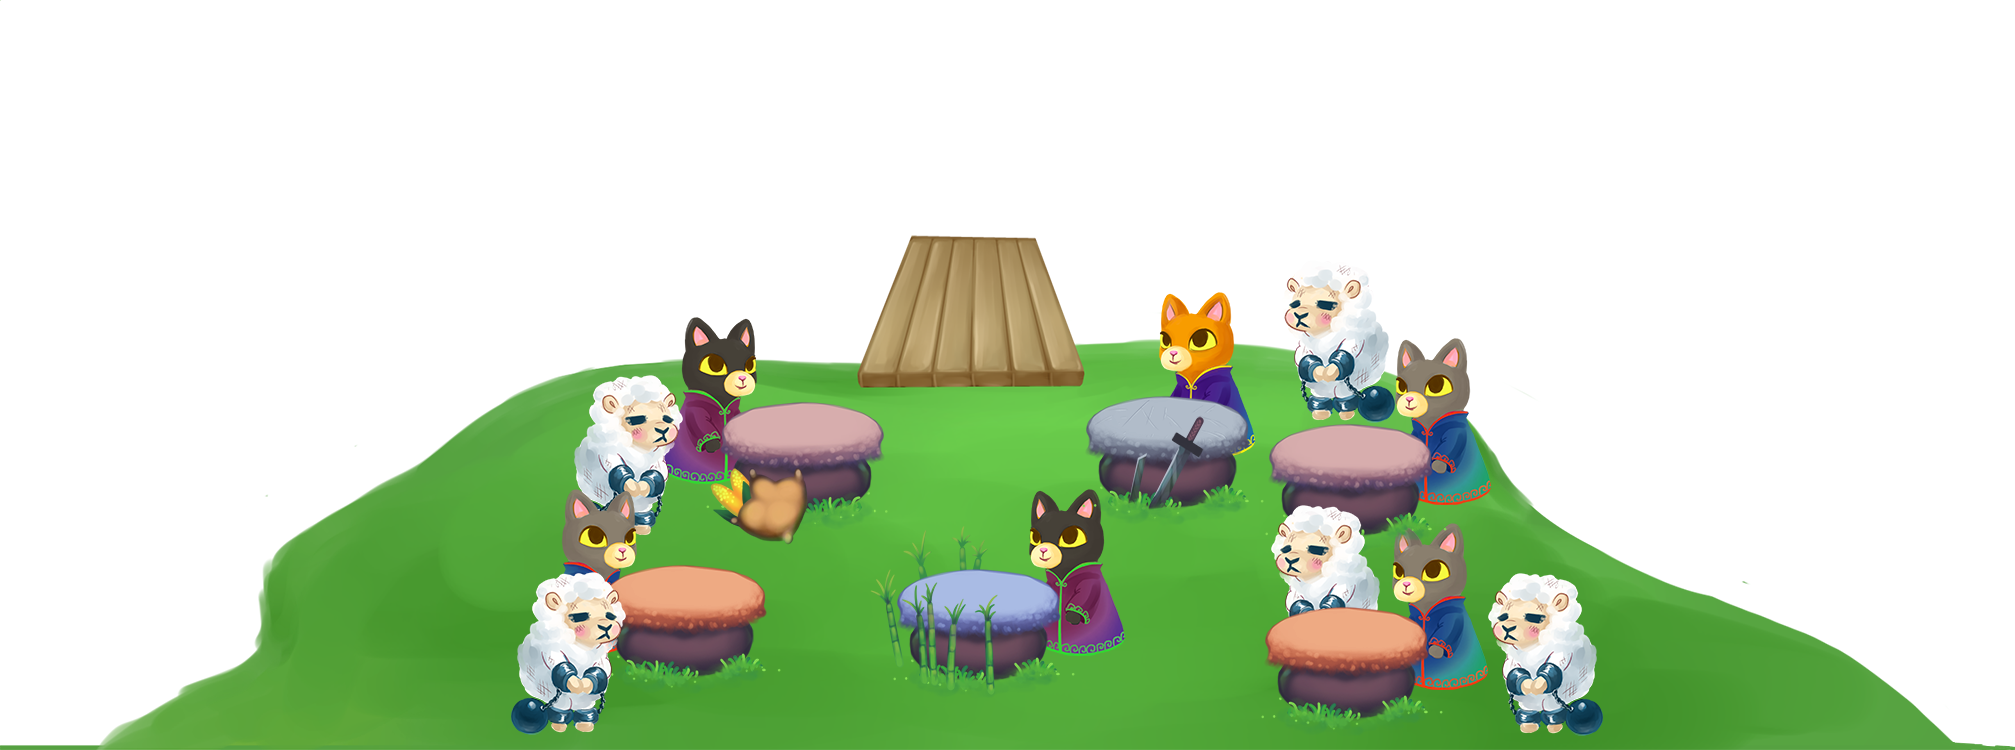
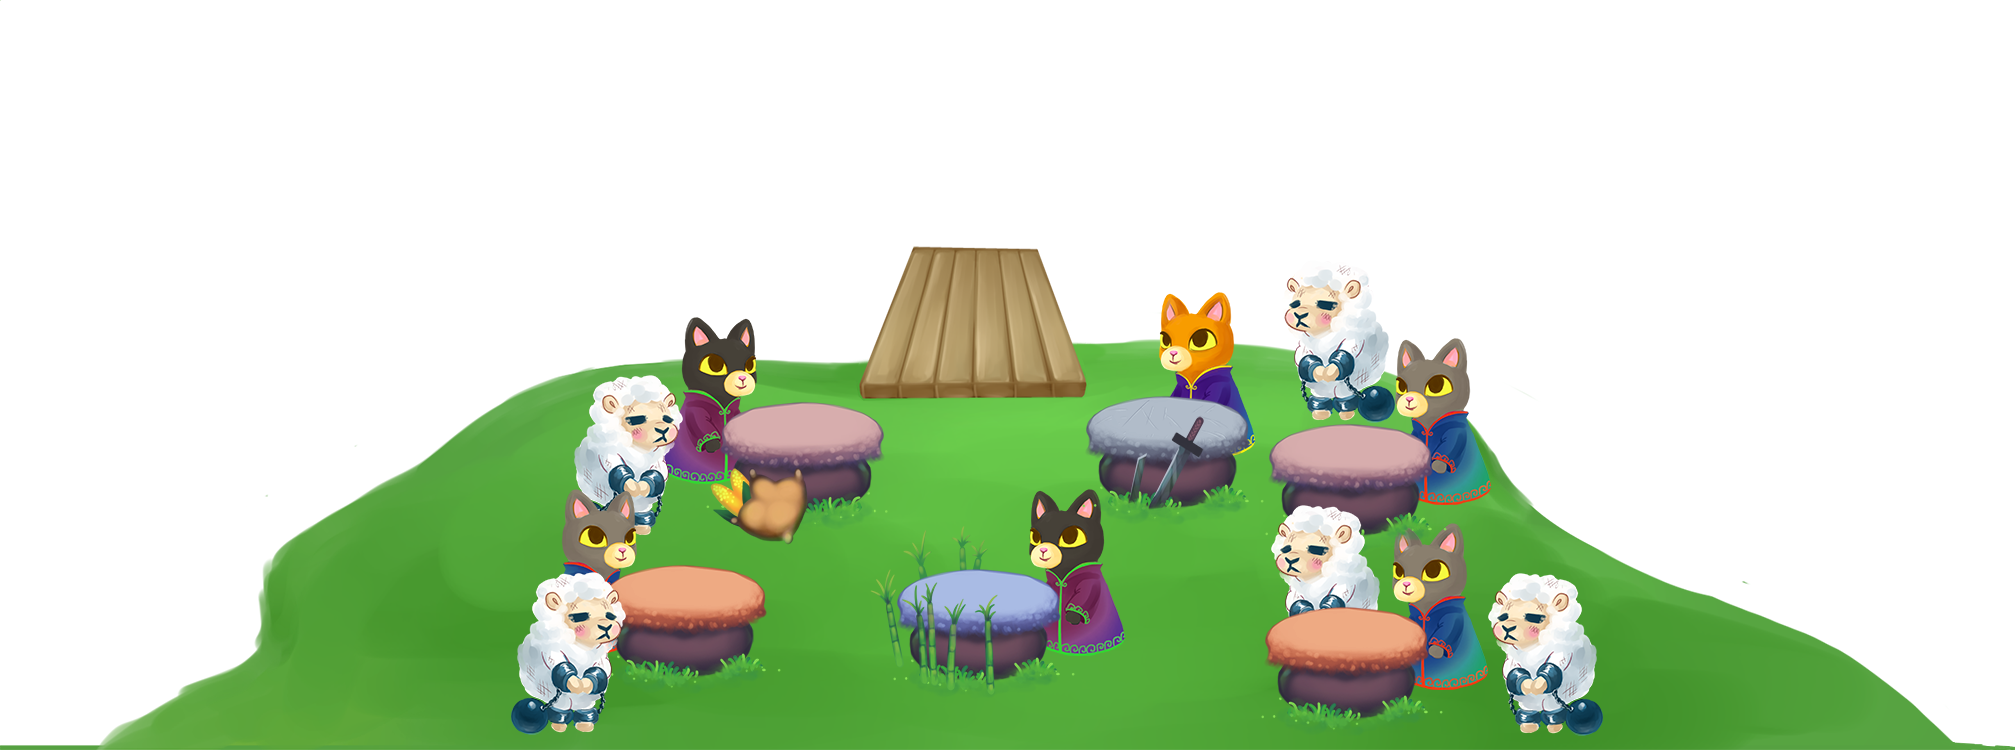
Adjusted dock length, updated vendor click zones to match graphics.

Changed region(s): [[0.4, 0.3067, 0.5538, 0.552]]

diff --git a/src/vendor.js b/src/vendor.js
@@ -25,12 +25,12 @@ addHandler('load', (session) => {
 addHandler('start', (session) => {
     session.vendorsEnabled = false;
     session.vendors = [];
-    makeVendor(session, 'vendor1', {left: 139, top: 585, right: 243, bottom: 664});
-    makeVendor(session, 'vendor2', {left: 268, top: 434, right: 365, bottom: 508});
-    makeVendor(session, 'vendor3', {left: 626, top: 425, right: 718, bottom: 503});
-    makeVendor(session, 'vendor4', {left: 792, top: 601, right: 907, bottom: 701});
-    makeVendor(session, 'vendor5', {left: 420, top: 582, right: 524, bottom: 651});
-    makeVendor(session, 'vendor6', {left: 790, top: 450, right: 900, bottom: 530});
+    makeVendor(session, 'vendor1', {left: 55, top: 515, right: 270, bottom: 677});
+    makeVendor(session, 'vendor2', {left: 163, top: 319, right: 382, bottom: 513});
+    makeVendor(session, 'vendor3', {left: 582, top: 295, right: 758, bottom: 514});
+    makeVendor(session, 'vendor4', {left: 760, top: 540, right: 986, bottom: 724});
+    makeVendor(session, 'vendor5', {left: 393, top: 489, right: 625, bottom: 679});
+    makeVendor(session, 'vendor6', {left: 765, top: 338, right: 990, bottom: 540});
 });
 
 addHandler('proceed', (session) => {
@@ -86,13 +86,17 @@ function makeVendor(session, baseName, bounds) {
     avatar.layer = 3;
 
     const textPosition = new Translation(session.scene.world);
-    textPosition.x.setTo((bounds.right + bounds.left) / 2.0 / 1000.0);
+    let x = (bounds.right + bounds.left) / 2.0 / 1000.0;
+    if (x > .83) x = .83;
+    textPosition.x.setTo(x);
     textPosition.y.setTo(bounds.top / 1000.0);
 
     const text = new TextAvatar(textPosition, session.scene.camera);
     text.textAlign = 'center';
     text.textBaseline = 'bottom';
     text.fillStyle = 'white';
+    text.strokeStyle = '#444';
+    text.lineWidth = 4;
     text.font = '24px verdana';
     text.layer = 4;
 
@@ -199,6 +203,7 @@ function updateVendorTextColor(session) {
     if (!session.vendorsEnabled) {
         for (const vendor of session.vendors) {
             vendor.text.fillStyle = 'transparent';
+            vendor.text.strokeStyle = 'transparent';
             vendor.text.changed();
         }
         return;
@@ -206,6 +211,7 @@ function updateVendorTextColor(session) {
     if (!inputEnabled(session, 'mousedown')) {
         for (const vendor of session.vendors) {
             vendor.text.fillStyle = '#aaa';
+            vendor.text.strokeStyle = '#444';
             vendor.text.changed();
         }
         return;
@@ -216,6 +222,7 @@ function updateVendorTextColor(session) {
         } else {
             vendor.text.fillStyle = '#ccc';
         }
+        vendor.text.strokeStyle = '#444';
         vendor.text.changed();
     }
 }
